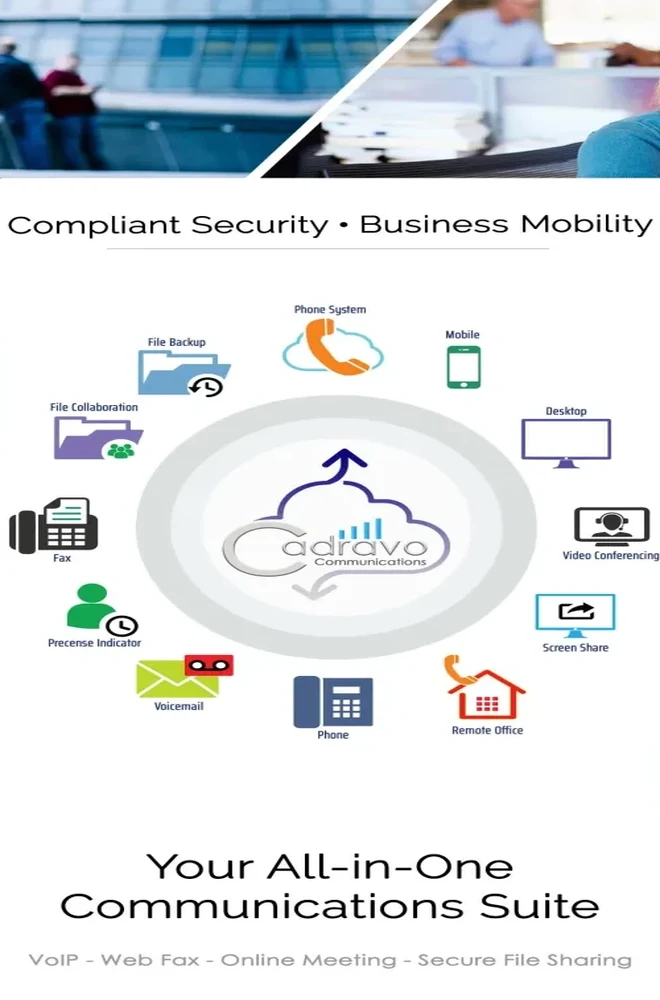
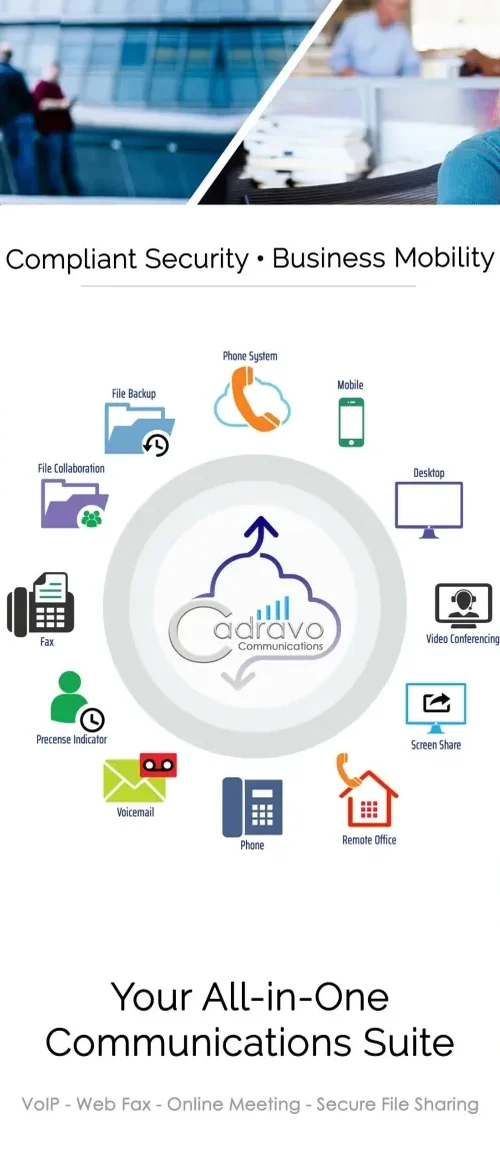
Keep magazine and brochure pages at true proportions (no stretching)
Claude-Session: https://claude.ai/code/session_0126NKCS3TtysyaQaZxswtoT

diff --git a/site/assets/folds.js b/site/assets/folds.js
@@ -5,7 +5,7 @@
   const P = 'assets/folds/';
   const PIECES = {
     runaway: {
-      title: 'The Runaway', sub: '· Z-fold brochure', ratio: 740 / 760, panels: 4,
+      title: 'The Runaway', sub: '· Z-fold brochure', ratio: 740 / 774, panels: 4,
       // front faces (left→right when open) and their backs; the back of the cover is the mailer
       front: ['runaway-a1', 'runaway-a2', 'runaway-a3', 'runaway-a4'], back: ['runaway-b4', 'runaway-b3', 'runaway-b2', 'runaway-b1'],
       steps: [
@@ -20,7 +20,7 @@
       ],
     },
     cadravo: {
-      title: 'Cadravo Communications', sub: '· Trifold brochure', ratio: 660 / 1000, panels: 3, trifold: true,
+      title: 'Cadravo Communications', sub: '· Trifold brochure', ratio: 500 / 1150, panels: 3, trifold: true,
       // inside I1 I2 I3; outside: cover (O3) is the back of I1, back cover (O2) behind I2, flap (O1) behind I3
       front: ['cadravo-i1', 'cadravo-i2', 'cadravo-i3'], back: ['cadravo-o3', 'cadravo-o2', 'cadravo-o1'],
       steps: [

diff --git a/site/assets/flipbook.css b/site/assets/flipbook.css
@@ -7,7 +7,7 @@ dialog.mag::backdrop{background:#040310e6}
 dialog.mag button{min-height:44px;padding:0 16px;border-radius:999px;border:0;background:#fff1a6;color:#1a1033;font:inherit;font-weight:700;cursor:pointer}
 dialog.mag button:hover{background:#ffb3d9}
 dialog.mag button:disabled{opacity:.35;cursor:default;background:#fff1a6}
-.mag-book{position:relative;width:100%;aspect-ratio:1260/846;max-height:72vh;margin:0 auto;perspective:4200px;cursor:pointer;border-radius:6px;box-shadow:0 30px 70px #000c}
+.mag-book{position:relative;width:min(100%,calc(72vh * 1260 / 846));aspect-ratio:1260/846;margin:0 auto;perspective:4200px;cursor:pointer;border-radius:6px;box-shadow:0 30px 70px #000c}
 .mag-book > div{position:absolute;inset:0;background-size:100% 100%;background-repeat:no-repeat}
 .mag-left{pointer-events:none}
 .mag-left.keep-l{clip-path:inset(0 50% 0 0)}

diff --git a/site/index.html b/site/index.html
@@ -305,7 +305,7 @@
   }
 </style>
 <link rel="stylesheet" href="assets/planets.css?v=2">
-<link rel="stylesheet" href="assets/flipbook.css?v=5">
+<link rel="stylesheet" href="assets/flipbook.css?v=6">
 <link rel="stylesheet" href="assets/folds.css?v=2">
 </head>
 <body>
@@ -678,7 +678,7 @@
 })();
 </script>
 <script src="assets/flipbook.js?v=4"></script>
-<script src="assets/folds.js?v=3"></script>
+<script src="assets/folds.js?v=4"></script>
 <script src="assets/planets.js?v=2"></script>
 <script src="assets/cursor.js?v=2"></script>
 <script src="assets/nav.js?v=2"></script>
